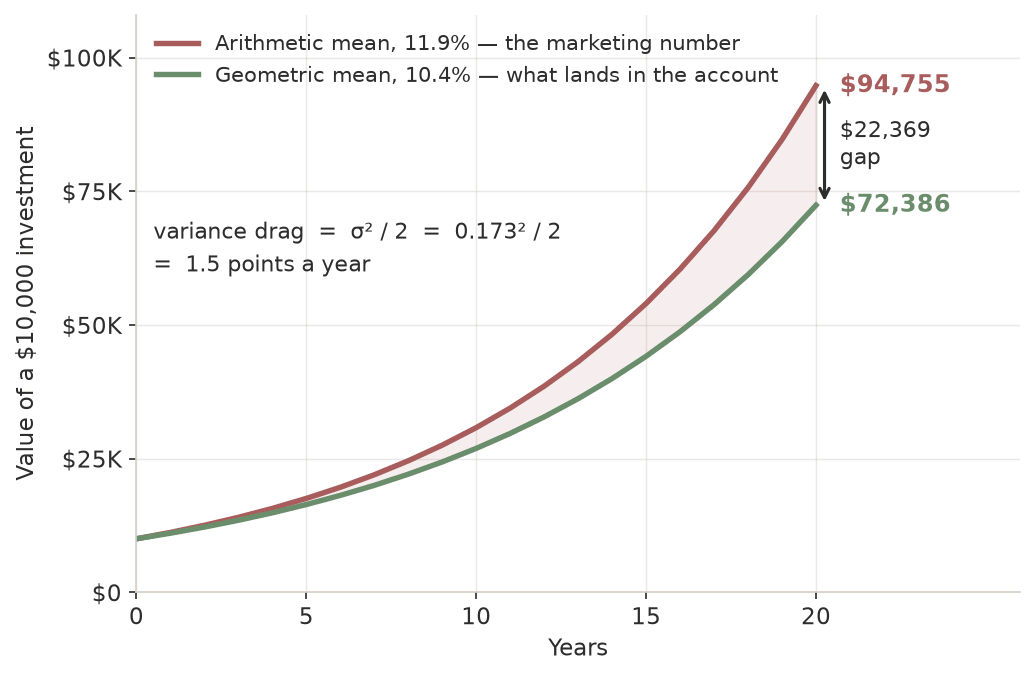
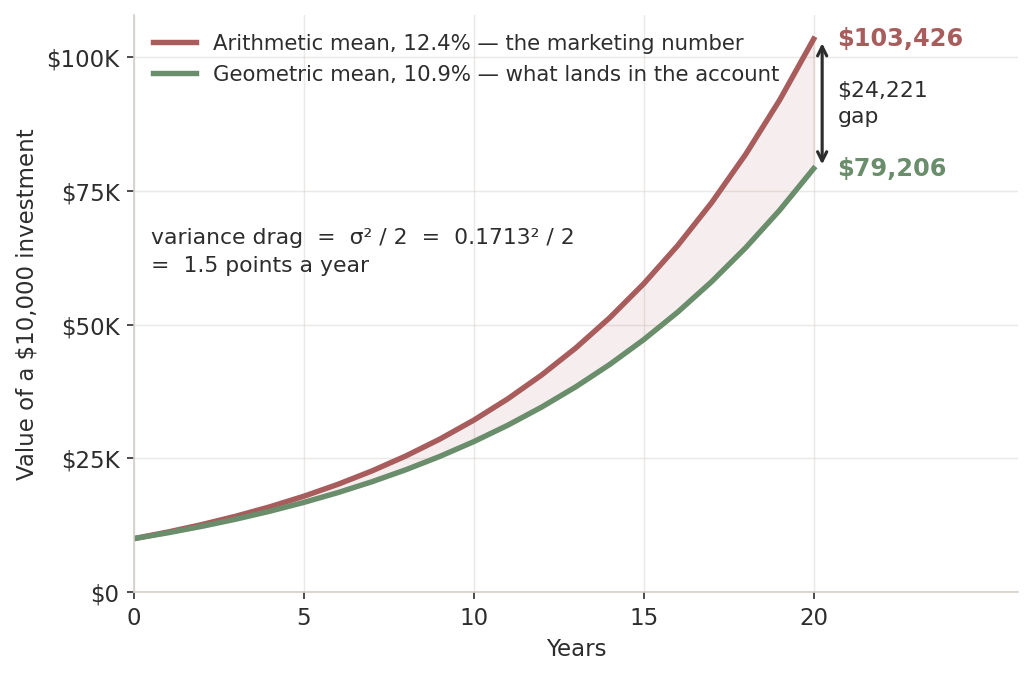
3916 Ch 4: the AM-vs-GM figure was still plotting the retracted S&P numbers
The deck contradicted itself. Slide 'variance-drag' carries the
corrected Damodaran set in its body -- 12.4%, 17.1%, 1.5 pts, 10.9% --
and its TIME note says in as many words that the old 11.9% was a
98-year mean stitched onto a 20-year sigma from an untraceable Morgan
Stanley source. But the figure on the next slide plotted exactly that
retracted pair: gen_all.py compounded 1.119 and 1.104035, the legend
read 11.9% and 10.4%, the annotation squared 0.173, and the endpoints
came out ,755 against ,386. The alt text spelled all of it out
too. The correction had been applied to the HTML and to the note and
never to the image, because the numbers were baked into a PNG.

Now 12.3910% and 10.9016% -- the rates that reproduce 5200's stated
,426 and ,205, and which round to the note's 12.39% and 10.90%.
The figure reads ,426 against ,206 with a ,221 gap, sigma
0.1713, drag still 1.5 points. 5200's equivalent slide was already
correct; this brings 3916 into line with it.

Only figure 007 changed: five other PNGs came out byte-different from
the same generator run and were restored from a pre-run snapshot, so
this commit carries no incidental churn.

Also flags the episode. 3916's own Ch 4 podcast teaches this slide from
39:18 to 40:30 with the retracted numbers and credits them to 'real
data from Morgan Stanley'. Red DO NOT REPEAT on variance-drag, scoped:
the bumpy-road-versus-paved-ramp image at 38:25 and the GM <= AM rule
survive; only the S&P figures must not be repeated.
[…]

diff --git a/econ3916/ch04-robust-statistics-robustness-in-a-skewed-world/index.html b/econ3916/ch04-robust-statistics-robustness-in-a-skewed-world/index.html
@@ -1196,14 +1196,14 @@ scores = iso.decision_function(features)         # more negative = more anomalou
         <p class="fragment fade-up" style="font-size: 16pt; margin-top: 20px; text-align: center;" data-notes="The approximation lands within 0.02 points. Half the variance is lost to the zigzag, permanently.">The approximation lands <strong>on the nose</strong>. Half the variance is permanently lost to the zigzag path of returns.</p>
         <p style="font-size: 11.5pt; color: var(--muted-color); margin-top: 12px; text-align: center;">Source: Damodaran, <em>Historical Returns on Stocks, Bonds and Bills</em>, NYU Stern (Aug 2026) &mdash; S&amp;P 500 including dividends, annual returns 2006&ndash;2025.</p>
       </div>
-      <aside class="notes" data-sv="1"><div class="sv-lead" style="margin:0 0 .5em;padding:.06em 0 .10em .55em;border-left:5px solid #1565C0;font-size:1.28em;line-height:1.34;font-weight:600;color:#111"><p><strong style="display:inline-block;font-size:.42em;font-weight:700;letter-spacing:.08em;color:#1565C0;vertical-align:.28em;margin-right:.5em">SAY:</strong> Geometric mean is about the arithmetic mean minus half the variance. Volatility itself is a cost. ⏸ 3 s.</p></div><p style="margin:0 0 .3em;font-size:.82em;color:#777"><strong>TIME:</strong> Thu 24 &mdash; cut (see the cut list on the study page). Verified 2026-09-21 from Damodaran (NYU Stern, S&amp;P 500 incl. dividends, 2006-2025): arithmetic 12.39%, sigma 17.13%, drag 1.47, predicted 10.92%, realised CAGR 10.90%. The approximation genuinely lands within 0.02 pts. The old 11.9% was the 98-year (1928-2025) mean stitched onto a 20-year sigma; the Morgan Stanley source was untraceable.</p><div class="sv-rest" style="margin:0;font-size:.9em;line-height:1.45;color:#5d5d5d"><p style="color:#a03027"><strong>DON'T SAY:</strong> The drag is a fee or a behavioural mistake.</p><p><strong>BACKGROUND:</strong> 2 min. The last box is the punchline: the formula predicted 10.4 and the market delivered 10.4. Volatility is not just risk, it is a direct subtraction from compound growth.</p><p><strong>IF ASKED:</strong> &ldquo;Where does the formula come from?&rdquo; &rarr; A second-order expansion of log(1+r). It is an approximation and it is good when returns are not enormous.</p></div></aside>
+      <aside class="notes" data-sv="1"><div class="sv-lead" style="margin:0 0 .5em;padding:.06em 0 .10em .55em;border-left:5px solid #1565C0;font-size:1.28em;line-height:1.34;font-weight:600;color:#111"><p><strong style="display:inline-block;font-size:.42em;font-weight:700;letter-spacing:.08em;color:#1565C0;vertical-align:.28em;margin-right:.5em">SAY:</strong> Geometric mean is about the arithmetic mean minus half the variance. Volatility itself is a cost. ⏸ 3 s.</p></div><p style="margin:0 0 .3em;font-size:.82em;color:#777"><strong>TIME:</strong> Thu 24 &mdash; cut (see the cut list on the study page). Verified 2026-09-21 from Damodaran (NYU Stern, S&amp;P 500 incl. dividends, 2006-2025): arithmetic 12.39%, sigma 17.13%, drag 1.47, predicted 10.92%, realised CAGR 10.90%. The approximation genuinely lands within 0.02 pts. The old 11.9% was the 98-year (1928-2025) mean stitched onto a 20-year sigma; the Morgan Stanley source was untraceable.</p><div class="sv-rest" style="margin:0;font-size:.9em;line-height:1.45;color:#5d5d5d"><p style="margin:0 0 .45em;padding:.3em .6em;background:#FBF2F1;border-left:3px solid #a03027;color:#7d2620"><b>FROM THE PODCAST &mdash; 39:18, DO NOT REPEAT</b> &mdash; the episode teaches this slide with the <b>retracted</b> numbers, all the way through to 40:30, and it credits them to <i>&ldquo;real data from Morgan Stanley&rdquo;</i> &mdash; the source this deck could not trace. It says the arithmetic mean was <b>11.9%</b>, sigma <b>17.3%</b>, drag exactly <b>1.5</b>, geometric <b>10.4%</b>, and &#36;10,000 growing to about <b>&#36;94,600</b> against <b>&#36;72,800</b>. <b>None of those are the numbers on this slide or in the figure on the next one.</b> Ours are Damodaran, S&amp;P 500 including dividends, 2006&ndash;2025: arithmetic <b>12.39%</b>, sigma <b>17.13%</b>, drag <b>1.47</b>, predicted <b>10.92%</b> against a realised CAGR of <b>10.90%</b>, and &#36;10,000 reaching <b>&#36;103,426</b> against <b>&#36;79,206</b>. The old 11.9% was a 98-year (1928&ndash;2025) mean stitched onto a 20-year sigma. <b>What survives:</b> everything before 39:18 &mdash; the bumpy-road-versus-paved-ramp image at 38:25 is good and the GM &le; AM rule is right. It is only the S&amp;P figures that must not be repeated.</p><p style="color:#a03027"><strong>DON'T SAY:</strong> The drag is a fee or a behavioural mistake.</p><p><strong>BACKGROUND:</strong> 2 min. The last box is the punchline: the formula predicted 10.4 and the market delivered 10.4. Volatility is not just risk, it is a direct subtraction from compound growth.</p><p><strong>IF ASKED:</strong> &ldquo;Where does the formula come from?&rdquo; &rarr; A second-order expansion of log(1+r). It is an approximation and it is good when returns are not enormous.</p></div></aside>
     </section>
 
     <!-- SLIDE 50: AM vs GM figure -->
     <section id="amgm-figure" style="padding: 26px 40px;">
       <h2 style="font-size: 24pt;">1.5 Points a Year, Compounded</h2>
       <div class="content">
-        <img src="figures/figure_007_am_vs_gm.png" alt="Two compounding curves for a 10,000 dollar investment over twenty years: the arithmetic mean at 11.9 percent reaching 94,755 dollars and the geometric mean at 10.4 percent reaching 72,386 dollars, separating into a gap of 22,369 dollars" style="max-height: 460px; display: block; margin: 0 auto;">
+        <img src="figures/figure_007_am_vs_gm.png" alt="Two compounding curves for a 10,000 dollar investment over twenty years: the arithmetic mean at 12.4 percent reaching 103,426 dollars and the geometric mean at 10.9 percent reaching 79,206 dollars, separating into a gap of 24,221 dollars" style="max-height: 460px; display: block; margin: 0 auto;">
         <p class="fragment fade-up" style="font-size: 15pt; margin-top: 10px; text-align: center;" data-notes="Funds quote the arithmetic mean because it is always the larger number. Not a lie, and not the return you earned.">Funds report the arithmetic mean in marketing material because it is always the bigger number. <strong>&ldquo;Is that arithmetic or geometric?&rdquo;</strong> is a question you can now ask in an interview.</p>
       </div>
       <aside class="notes" data-sv="1"><p style="margin:0 0 .3em;font-size:.82em;color:#777">2 min.</p><div class="sv-lead" style="margin:0 0 .5em;padding:.06em 0 .10em .55em;border-left:5px solid #1565C0;font-size:1.28em;line-height:1.34;font-weight:600;color:#111"><p>Trace the widening gap with a finger.</p></div><p style="margin:0 0 .3em;font-size:.82em;color:#777"><strong>TIME:</strong> Thu 24 &mdash; cut (see the cut list on the study page)</p><div class="sv-rest" style="margin:0;font-size:.9em;line-height:1.45;color:#5d5d5d"><div>A gap of a point and a half sounds trivial until you see it at year twenty. This is a genuinely useful interview line and students should write it down.</div></div></aside>

diff --git a/econ3916/ch04-robust-statistics-robustness-in-a-skewed-world/presentation.html b/econ3916/ch04-robust-statistics-robustness-in-a-skewed-world/presentation.html
@@ -1196,14 +1196,14 @@ scores = iso.decision_function(features)         # more negative = more anomalou
         <p class="fragment fade-up" style="font-size: 16pt; margin-top: 20px; text-align: center;" data-notes="The approximation lands within 0.02 points. Half the variance is lost to the zigzag, permanently.">The approximation lands <strong>on the nose</strong>. Half the variance is permanently lost to the zigzag path of returns.</p>
         <p style="font-size: 11.5pt; color: var(--muted-color); margin-top: 12px; text-align: center;">Source: Damodaran, <em>Historical Returns on Stocks, Bonds and Bills</em>, NYU Stern (Aug 2026) &mdash; S&amp;P 500 including dividends, annual returns 2006&ndash;2025.</p>
       </div>
-      <aside class="notes" data-sv="1"><div class="sv-lead" style="margin:0 0 .5em;padding:.06em 0 .10em .55em;border-left:5px solid #1565C0;font-size:1.28em;line-height:1.34;font-weight:600;color:#111"><p><strong style="display:inline-block;font-size:.42em;font-weight:700;letter-spacing:.08em;color:#1565C0;vertical-align:.28em;margin-right:.5em">SAY:</strong> Geometric mean is about the arithmetic mean minus half the variance. Volatility itself is a cost. ⏸ 3 s.</p></div><p style="margin:0 0 .3em;font-size:.82em;color:#777"><strong>TIME:</strong> Thu 24 &mdash; cut (see the cut list on the study page). Verified 2026-09-21 from Damodaran (NYU Stern, S&amp;P 500 incl. dividends, 2006-2025): arithmetic 12.39%, sigma 17.13%, drag 1.47, predicted 10.92%, realised CAGR 10.90%. The approximation genuinely lands within 0.02 pts. The old 11.9% was the 98-year (1928-2025) mean stitched onto a 20-year sigma; the Morgan Stanley source was untraceable.</p><div class="sv-rest" style="margin:0;font-size:.9em;line-height:1.45;color:#5d5d5d"><p style="color:#a03027"><strong>DON'T SAY:</strong> The drag is a fee or a behavioural mistake.</p><p><strong>BACKGROUND:</strong> 2 min. The last box is the punchline: the formula predicted 10.4 and the market delivered 10.4. Volatility is not just risk, it is a direct subtraction from compound growth.</p><p><strong>IF ASKED:</strong> &ldquo;Where does the formula come from?&rdquo; &rarr; A second-order expansion of log(1+r). It is an approximation and it is good when returns are not enormous.</p></div></aside>
+      <aside class="notes" data-sv="1"><div class="sv-lead" style="margin:0 0 .5em;padding:.06em 0 .10em .55em;border-left:5px solid #1565C0;font-size:1.28em;line-height:1.34;font-weight:600;color:#111"><p><strong style="display:inline-block;font-size:.42em;font-weight:700;letter-spacing:.08em;color:#1565C0;vertical-align:.28em;margin-right:.5em">SAY:</strong> Geometric mean is about the arithmetic mean minus half the variance. Volatility itself is a cost. ⏸ 3 s.</p></div><p style="margin:0 0 .3em;font-size:.82em;color:#777"><strong>TIME:</strong> Thu 24 &mdash; cut (see the cut list on the study page). Verified 2026-09-21 from Damodaran (NYU Stern, S&amp;P 500 incl. dividends, 2006-2025): arithmetic 12.39%, sigma 17.13%, drag 1.47, predicted 10.92%, realised CAGR 10.90%. The approximation genuinely lands within 0.02 pts. The old 11.9% was the 98-year (1928-2025) mean stitched onto a 20-year sigma; the Morgan Stanley source was untraceable.</p><div class="sv-rest" style="margin:0;font-size:.9em;line-height:1.45;color:#5d5d5d"><p style="margin:0 0 .45em;padding:.3em .6em;background:#FBF2F1;border-left:3px solid #a03027;color:#7d2620"><b>FROM THE PODCAST &mdash; 39:18, DO NOT REPEAT</b> &mdash; the episode teaches this slide with the <b>retracted</b> numbers, all the way through to 40:30, and it credits them to <i>&ldquo;real data from Morgan Stanley&rdquo;</i> &mdash; the source this deck could not trace. It says the arithmetic mean was <b>11.9%</b>, sigma <b>17.3%</b>, drag exactly <b>1.5</b>, geometric <b>10.4%</b>, and &#36;10,000 growing to about <b>&#36;94,600</b> against <b>&#36;72,800</b>. <b>None of those are the numbers on this slide or in the figure on the next one.</b> Ours are Damodaran, S&amp;P 500 including dividends, 2006&ndash;2025: arithmetic <b>12.39%</b>, sigma <b>17.13%</b>, drag <b>1.47</b>, predicted <b>10.92%</b> against a realised CAGR of <b>10.90%</b>, and &#36;10,000 reaching <b>&#36;103,426</b> against <b>&#36;79,206</b>. The old 11.9% was a 98-year (1928&ndash;2025) mean stitched onto a 20-year sigma. <b>What survives:</b> everything before 39:18 &mdash; the bumpy-road-versus-paved-ramp image at 38:25 is good and the GM &le; AM rule is right. It is only the S&amp;P figures that must not be repeated.</p><p style="color:#a03027"><strong>DON'T SAY:</strong> The drag is a fee or a behavioural mistake.</p><p><strong>BACKGROUND:</strong> 2 min. The last box is the punchline: the formula predicted 10.4 and the market delivered 10.4. Volatility is not just risk, it is a direct subtraction from compound growth.</p><p><strong>IF ASKED:</strong> &ldquo;Where does the formula come from?&rdquo; &rarr; A second-order expansion of log(1+r). It is an approximation and it is good when returns are not enormous.</p></div></aside>
     </section>
 
     <!-- SLIDE 50: AM vs GM figure -->
     <section id="amgm-figure" style="padding: 26px 40px;">
       <h2 style="font-size: 24pt;">1.5 Points a Year, Compounded</h2>
       <div class="content">
-        <img src="figures/figure_007_am_vs_gm.png" alt="Two compounding curves for a 10,000 dollar investment over twenty years: the arithmetic mean at 11.9 percent reaching 94,755 dollars and the geometric mean at 10.4 percent reaching 72,386 dollars, separating into a gap of 22,369 dollars" style="max-height: 460px; display: block; margin: 0 auto;">
+        <img src="figures/figure_007_am_vs_gm.png" alt="Two compounding curves for a 10,000 dollar investment over twenty years: the arithmetic mean at 12.4 percent reaching 103,426 dollars and the geometric mean at 10.9 percent reaching 79,206 dollars, separating into a gap of 24,221 dollars" style="max-height: 460px; display: block; margin: 0 auto;">
         <p class="fragment fade-up" style="font-size: 15pt; margin-top: 10px; text-align: center;" data-notes="Funds quote the arithmetic mean because it is always the larger number. Not a lie, and not the return you earned.">Funds report the arithmetic mean in marketing material because it is always the bigger number. <strong>&ldquo;Is that arithmetic or geometric?&rdquo;</strong> is a question you can now ask in an interview.</p>
       </div>
       <aside class="notes" data-sv="1"><p style="margin:0 0 .3em;font-size:.82em;color:#777">2 min.</p><div class="sv-lead" style="margin:0 0 .5em;padding:.06em 0 .10em .55em;border-left:5px solid #1565C0;font-size:1.28em;line-height:1.34;font-weight:600;color:#111"><p>Trace the widening gap with a finger.</p></div><p style="margin:0 0 .3em;font-size:.82em;color:#777"><strong>TIME:</strong> Thu 24 &mdash; cut (see the cut list on the study page)</p><div class="sv-rest" style="margin:0;font-size:.9em;line-height:1.45;color:#5d5d5d"><div>A gap of a point and a half sounds trivial until you see it at year twenty. This is a genuinely useful interview line and students should write it down.</div></div></aside>
